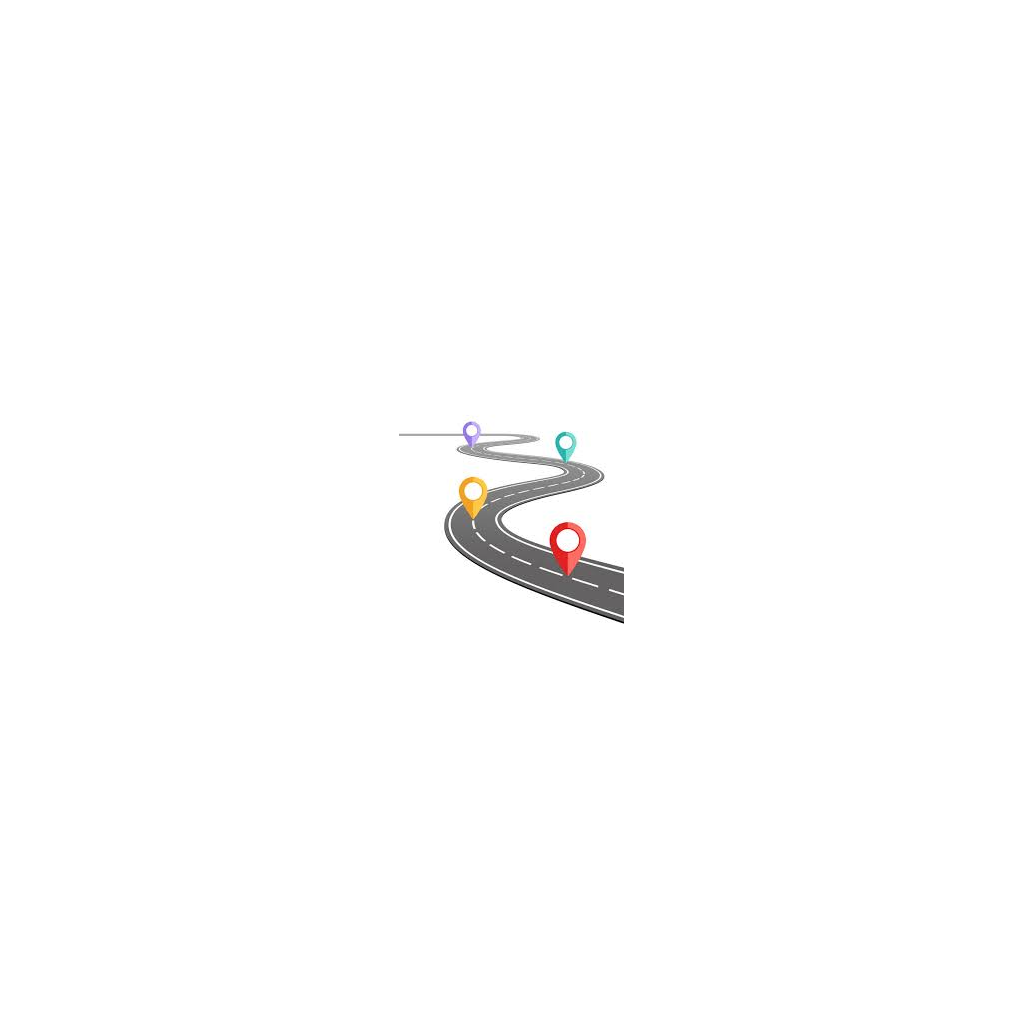
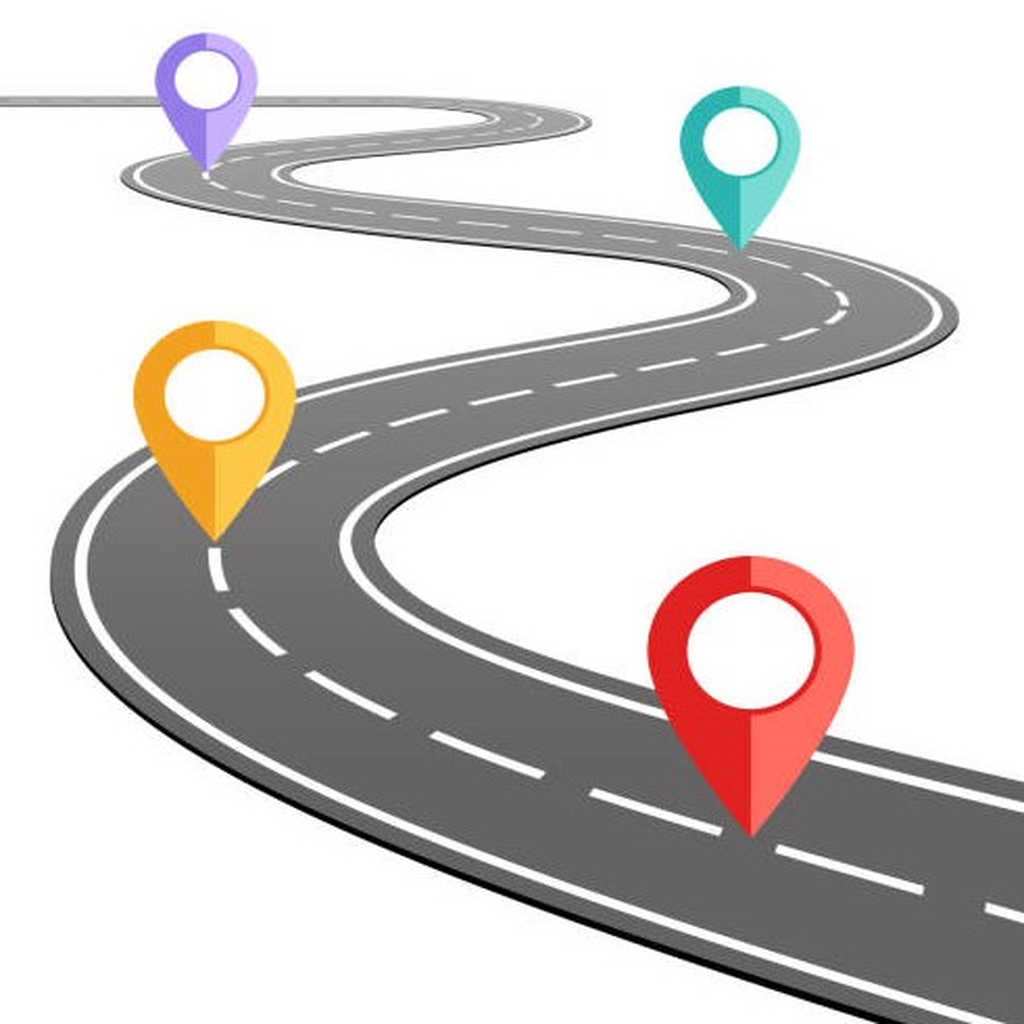
feat: Actualizar icono de app y mejorar pantalla de login
NUEVO ICONO:
- Reemplazado con imagen de ruta con marcadores de colores
- Aplicado a: icon.png, adaptive-icon.png, splash-icon.png, favicon.png
- Tamaños optimizados para todas las plataformas

MEJORAS EN LOGIN:
- Agregada imagen de ruta en la parte superior
- Eliminado cuadro de debug logs
- Interfaz más limpia y profesional
- Solo muestra: imagen, título, campos y botón

ARCHIVOS:
- assets/icon.png (actualizado)
- assets/adaptive-icon.png (actualizado)
- assets/splash-icon.png (actualizado)
- assets/favicon.png (actualizado)
- assets/login-header.jpg (nuevo)
- src/screens/LoginScreen.tsx (limpiado)

REMOVIDO:
- Estado debugLogs
- Función addLog
- Componente de debug logs en UI
- Estilos de debug (debugContainer, debugTitle, etc)

diff --git a/src/screens/LoginScreen.tsx b/src/screens/LoginScreen.tsx
@@ -10,6 +10,7 @@ import {
   KeyboardAvoidingView,
   Platform,
   ScrollView,
+  Image,
 } from 'react-native';
 import AsyncStorage from '@react-native-async-storage/async-storage';
 import apiService from '../services/apiService';
@@ -22,12 +23,6 @@ export default function LoginScreen({ onLoginSuccess }: LoginScreenProps) {
   const [phoneNumber, setPhoneNumber] = useState('');
   const [password, setPassword] = useState('');
   const [loading, setLoading] = useState(false);
-  const [debugLogs, setDebugLogs] = useState<string[]>([]);
-
-  const addLog = (message: string) => {
-    const timestamp = new Date().toLocaleTimeString();
-    setDebugLogs(prev => [`[${timestamp}] ${message}`, ...prev].slice(0, 10));
-  };
 
   const handleLogin = async () => {
     if (!phoneNumber || !password) {
@@ -36,26 +31,20 @@ export default function LoginScreen({ onLoginSuccess }: LoginScreenProps) {
     }
 
     setLoading(true);
-    addLog(`Iniciando login con: ${phoneNumber}`);
     
     try {
-      addLog('Enviando petición al servidor...');
       const result = await apiService.login(phoneNumber, password);
-      addLog(`Respuesta: ${JSON.stringify(result)}`);
       
       if (result.success && result.driver) {
         // Guardar información del driver
         await AsyncStorage.setItem('driverId', result.driver.id);
         await AsyncStorage.setItem('driverName', result.driver.name);
         await AsyncStorage.setItem('driverPhone', result.driver.phoneNumber);
-        addLog(`Driver guardado: ${result.driver.name}`);
-        addLog('Login exitoso!');
         onLoginSuccess();
       } else {
         throw new Error('Respuesta inválida del servidor');
       }
     } catch (error: any) {
-      addLog(`Error: ${error.message}`);
       Alert.alert('Error', error.message || 'Error al iniciar sesión');
     } finally {
       setLoading(false);
@@ -69,6 +58,11 @@ export default function LoginScreen({ onLoginSuccess }: LoginScreenProps) {
     >
       <View style={styles.content}>
         <View style={styles.header}>
+          <Image 
+            source={require('../../assets/login-header.jpg')} 
+            style={styles.headerImage}
+            resizeMode="contain"
+          />
           <Text style={styles.title}>Rutas Chofer</Text>
           <Text style={styles.subtitle}>Gestión de entregas</Text>
         </View>
@@ -113,17 +107,7 @@ export default function LoginScreen({ onLoginSuccess }: LoginScreenProps) {
           </TouchableOpacity>
         </View>
 
-        {/* Debug Logs */}
-        {debugLogs.length > 0 && (
-          <View style={styles.debugContainer}>
-            <Text style={styles.debugTitle}>Debug Logs:</Text>
-            <ScrollView style={styles.debugScroll}>
-              {debugLogs.map((log, index) => (
-                <Text key={index} style={styles.debugText}>{log}</Text>
-              ))}
-            </ScrollView>
-          </View>
-        )}
+
       </View>
     </KeyboardAvoidingView>
   );
@@ -142,6 +126,11 @@ const styles = StyleSheet.create({
   header: {
     alignItems: 'center',
     marginBottom: 40,
+  },
+  headerImage: {
+    width: 200,
+    height: 150,
+    marginBottom: 20,
   },
   title: {
     fontSize: 32,
@@ -194,27 +183,5 @@ const styles = StyleSheet.create({
     color: '#fff',
     fontSize: 16,
     fontWeight: '600',
-  },
-  debugContainer: {
-    marginTop: 20,
-    backgroundColor: '#000',
-    borderRadius: 8,
-    padding: 12,
-    maxHeight: 200,
-  },
-  debugTitle: {
-    color: '#0f0',
-    fontSize: 12,
-    fontWeight: 'bold',
-    marginBottom: 8,
-  },
-  debugScroll: {
-    maxHeight: 150,
-  },
-  debugText: {
-    color: '#0f0',
-    fontSize: 10,
-    fontFamily: Platform.OS === 'ios' ? 'Courier' : 'monospace',
-    marginBottom: 4,
   },
 });
